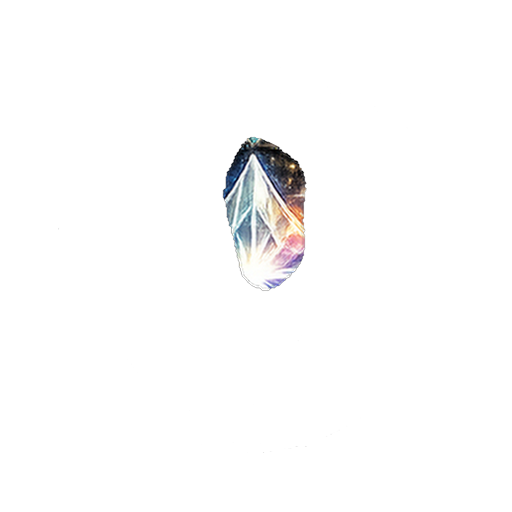
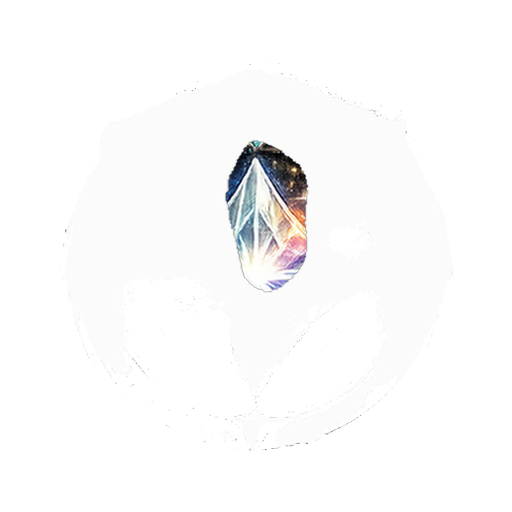
Restored to '4ea34b4b999f09aeb93dbcd09b481bdf0c73490c'
Replit-Restored-To: 4ea34b4b999f09aeb93dbcd09b481bdf0c73490c

Changed region(s): [[0.4375, 0.25, 0.625, 0.5938]]

diff --git a/artifacts/luminae/src/pages/game.tsx b/artifacts/luminae/src/pages/game.tsx
@@ -190,11 +190,10 @@ function CrystalIcon({
       title={meta.name}
       aria-label={`${meta.name} affinity${count !== undefined ? `, ${count} available` : ''}`}
       data-testid={`gem-${color}`}
-      className={`relative rounded-full flex items-center justify-center font-bold text-white overflow-hidden ${selectable ? 'cursor-pointer' : ''} ${selected ? 'ring-4 ring-primary ring-offset-2 ring-offset-background' : ''}`}
+      className={`relative rounded-full flex items-center justify-center font-bold text-white ${selectable ? 'cursor-pointer' : ''} ${selected ? 'ring-4 ring-primary ring-offset-2 ring-offset-background' : ''}`}
       style={{
         width: size, height: size,
-        background: `radial-gradient(circle at 35% 35%, ${meta.hex}cc 0%, ${meta.hex}66 55%, ${meta.hex}22 100%)`,
-        boxShadow: `0 0 ${size * 0.3}px ${meta.glowHex}88, inset 0 0 ${size * 0.15}px rgba(0,0,0,0.6)`,
+        boxShadow: `0 0 ${size * 0.3}px ${meta.glowHex}55, inset 0 0 4px rgba(0,0,0,0.5)`,
       }}
     >
       <img
@@ -3145,26 +3144,15 @@ export default function GameBoard() {
                   {!isEmpty && (
                     <div className="absolute inset-x-0 top-0 h-[1px] pointer-events-none" style={{ background: `linear-gradient(90deg, transparent, ${meta.glowHex}99, transparent)` }} />
                   )}
-                  {/* Subtle inner glow disc behind the gem image */}
-                  {!isEmpty && (
-                    <div
-                      className="absolute rounded-full pointer-events-none"
-                      style={{
-                        width: '68%', height: '68%',
-                        background: `radial-gradient(circle at 40% 35%, ${meta.hex}40 0%, ${meta.hex}18 55%, transparent 100%)`,
-                        boxShadow: `inset 0 0 12px ${meta.hex}22`,
-                      }}
-                    />
-                  )}
                   <AffinityEmblem
                     color={c as GemKey}
-                    className="w-[72%] h-[72%] object-contain pointer-events-none select-none relative"
+                    className="w-[58%] h-[58%] object-contain pointer-events-none select-none"
                     style={{
                       filter: isEmpty
                         ? 'grayscale(0.8) opacity(0.4)'
                         : queued > 0
                           ? `drop-shadow(0 0 10px ${meta.glowHex}) drop-shadow(0 0 4px ${meta.glowHex}) brightness(1.3)`
-                          : `drop-shadow(0 0 8px ${meta.glowHex}cc) brightness(1.1)`,
+                          : `drop-shadow(0 0 7px ${meta.glowHex}80)`,
                     }}
                   />
                   <div className="flex items-center gap-0.5 mt-0.5">

diff --git a/artifacts/luminae/src/components/AffinityEmblem.tsx b/artifacts/luminae/src/components/AffinityEmblem.tsx
@@ -13,6 +13,10 @@ export interface AffinityEmblemProps {
 /**
  * Unified affinity emblem renderer.
  * All six gems use a PNG asset with transparent background.
+ * pearl → luminae_radiance_emblem_v1.png   (solar-gold 8-pt starburst medallion)
+ * flux  → luminae_singularity_emblem_v1.png (prismatic crystalline diamond)
+ * other → existing affinity coin PNGs
+ *
  * The default filter is a per-gem glowHex drop-shadow; callers override via `style`.
  */
 export function AffinityEmblem({ color, size, className, style }: AffinityEmblemProps) {
@@ -23,9 +27,9 @@ export function AffinityEmblem({ color, size, className, style }: AffinityEmblem
       alt={meta.name}
       title={meta.name}
       {...(size != null ? { width: size, height: size } : {})}
-      className={["pointer-events-none select-none shrink-0", className ?? ""].join(" ").trim()}
+      className={["rounded-full pointer-events-none select-none shrink-0", className ?? ""].join(" ").trim()}
       style={{
-        filter: `drop-shadow(0 0 3px ${meta.glowHex}88)`,
+        filter: `${meta.imageFilter ? meta.imageFilter + " " : ""}drop-shadow(0 0 3px ${meta.glowHex}88)`,
         ...style,
       }}
       draggable={false}
